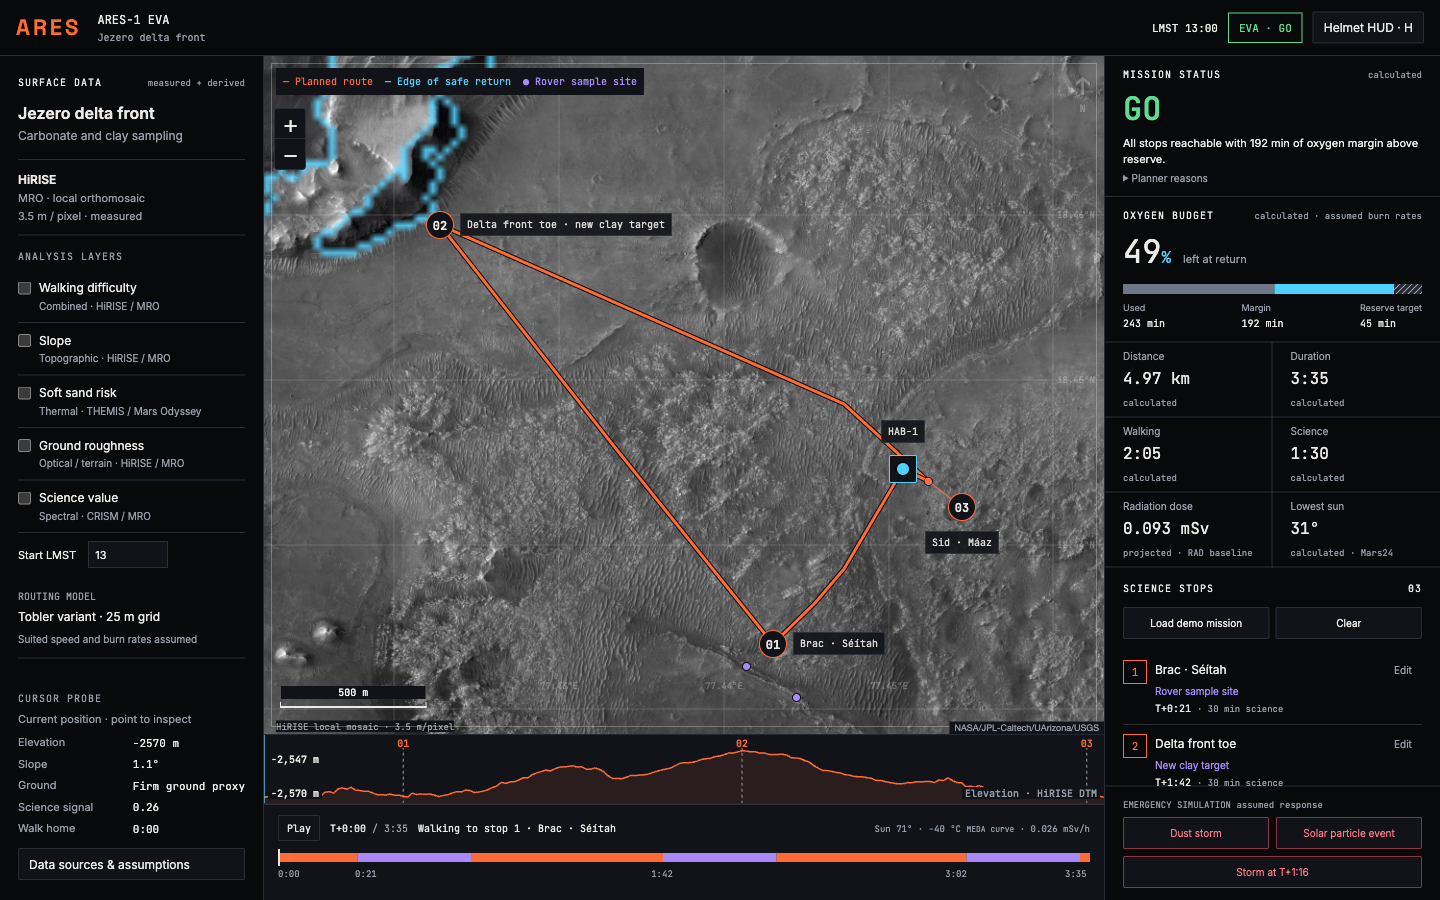
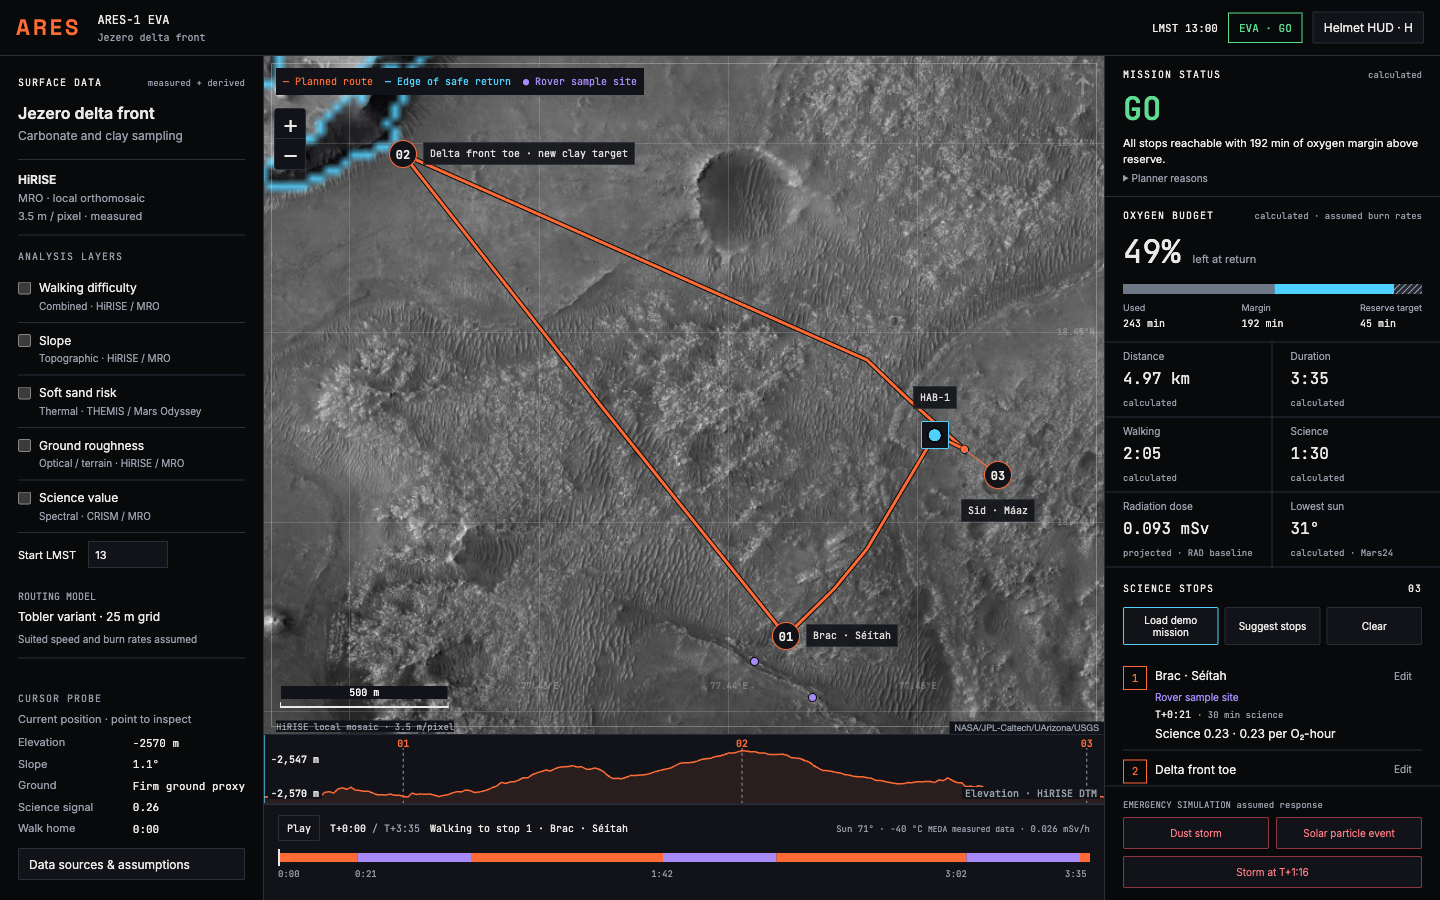
Consolidate photo credits and capture mission states

diff --git a/app/src/lib/photos.test.ts b/app/src/lib/photos.test.ts
@@ -1,7 +1,6 @@
 import { readFileSync, existsSync } from "node:fs";
 import { it, expect } from "vitest";
-import credits from "../../public/photos/credits.json";
-import { photoDetails } from "./photos";
+import { PHOTO_CREDITS, photoCreditFor } from "./photoCredits";
 it("supplies credits and NASA source links for every supplied rover photo", () => {
   const site = JSON.parse(
     readFileSync(
@@ -10,8 +9,7 @@ it("supplies credits and NASA source links for every supplied rover photo", () =
     ),
   );
   for (const poi of site.pois.filter((p: { photo?: string }) => p.photo)) {
-    const entry = photoDetails(poi.photo)!;
-    expect(entry.credit).toBe("NASA/JPL-Caltech");
+    const entry = photoCreditFor(poi.photo)!;
     expect(new URL(entry.sourceUrl).hostname).toBe("mars.nasa.gov");
     expect(entry.sourceUrl.endsWith(entry.imageId)).toBe(true);
     const path = new URL(`../../public/${poi.photo}`, import.meta.url);
@@ -20,7 +18,7 @@ it("supplies credits and NASA source links for every supplied rover photo", () =
       Buffer.from([255, 216, 255]),
     );
   }
-  expect(Object.keys(credits)).toHaveLength(7);
-  expect(photoDetails("photos/delta-toe.jpg")).toBeUndefined();
-  expect(photoDetails("../other.jpg")).toBeUndefined();
+  expect(Object.keys(PHOTO_CREDITS)).toHaveLength(7);
+  expect(photoCreditFor("photos/delta-toe.jpg")).toBeUndefined();
+  expect(photoCreditFor("../other.jpg")).toBeUndefined();
 });

diff --git a/app/src/components/plugins.test.tsx b/app/src/components/plugins.test.tsx
@@ -68,7 +68,7 @@ describe("StopCard", () => {
     expect(html).toContain("Séítah outcrop (Brac)");
     expect(html).toContain(poiOf("seitah-brac").note!.slice(0, 40));
     expect(html).toContain('src="/photos/seitah-brac.jpg"');
-    expect(html).toMatch(/alt="Perseverance rover photo at Séítah outcrop \(Brac\), Front Left Hazcam, sol 262"/);
+    expect(html).toContain('alt="Perseverance at this sampling site"');
     expect(html).toContain("NASA/JPL-Caltech");
     expect(html).toContain("Front Left Hazcam");
     expect(html).toContain(">262<");
@@ -107,7 +107,7 @@ describe("StopCard", () => {
     expect(tPlus(0)).toBe("T+0:00");
     expect(tPlus(21 * 60 + 20)).toBe("T+0:21");
     expect(tPlus(3 * 3600 + 35 * 60)).toBe("T+3:35");
-    expect(tPlus(Infinity)).toBe("T+—");
+    expect(tPlus(Infinity)).toBe("—");
   });
 });
 

diff --git a/docs/frontend-screenshots/README.md b/docs/frontend-screenshots/README.md
@@ -6,7 +6,9 @@ Chrome responsive viewport: 1440 × 900 CSS pixels, device pixel ratio 1. Export
 - playback-leg-2.png: paused playback at 4531 seconds, walking on leg 2 toward stop 02 (clock rounds to T+1:16).
 - storm-leg-2.png: exact 4560-second preset, EVA NO-GO/ABORTED, return CAUTION, 57 min home, 244 min margin, 66% oxygen on arrival. Stop 02 remains below the alert strip.
 - storm-hud.png: same incident; both statuses, 57 min home and 244 min margin agree with the console.
+- stop-card-photo.png: Séítah outcrop (Brac) card with rover photo, camera and sol credit, and the caption “Perseverance at this sampling site.”
+- delta-front-toe-orbital.png: Delta front toe card with the orbital HiRISE view and science score.
 
 No page scrollbar or overlapping waypoint labels was visible in the captured states. The stop list scrolls inside the mission panel. Left probe defaults to the current astronaut position and updates while pointing over terrain. Coordinate grid is a 0.01-degree presentation overlay, not new scientific data.
 
-Planner and pipeline source were not edited. All three supplied plugins are integrated per components/README-plugins.md. Safe-zone cleanup changes only the drawn mask. The 70 px elevation strip follows normal playback and switches to the return route during an emergency. Supplied orbital and rover stop cards were inspected inside the existing focus-trapped dialog. Temperature labels now identify the pulled MEDA interpolation. The screenshot set was refreshed after integration; the full suite passes 231 tests.
+Planner and pipeline source were not edited. All three supplied plugins are integrated per components/README-plugins.md. Safe-zone cleanup changes only the drawn mask. The 70 px elevation strip follows normal playback and switches to the return route during an emergency. Supplied orbital and rover stop cards were inspected inside the existing focus-trapped dialog. Temperature labels now identify the pulled MEDA interpolation. The photo dialog extends below the 900 px viewport at this card size; this is a visual follow-up for the UI/UX pass.
